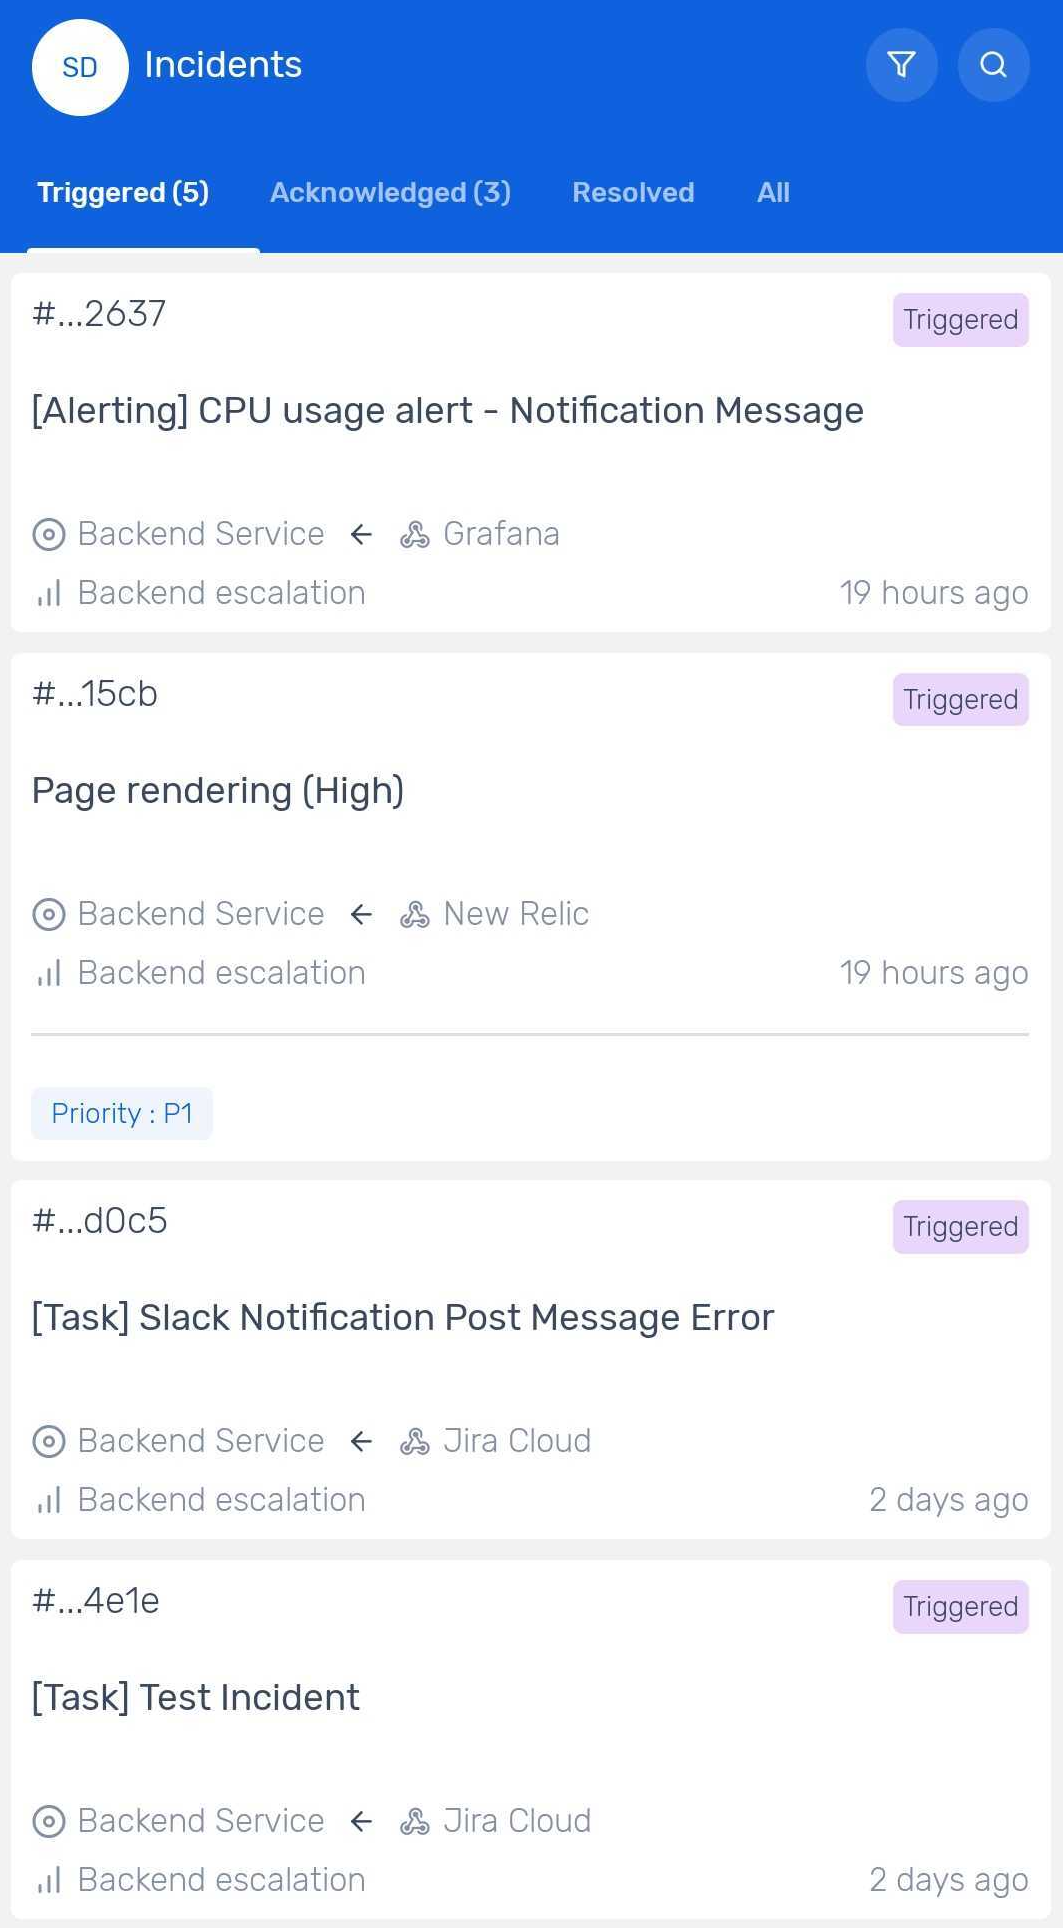
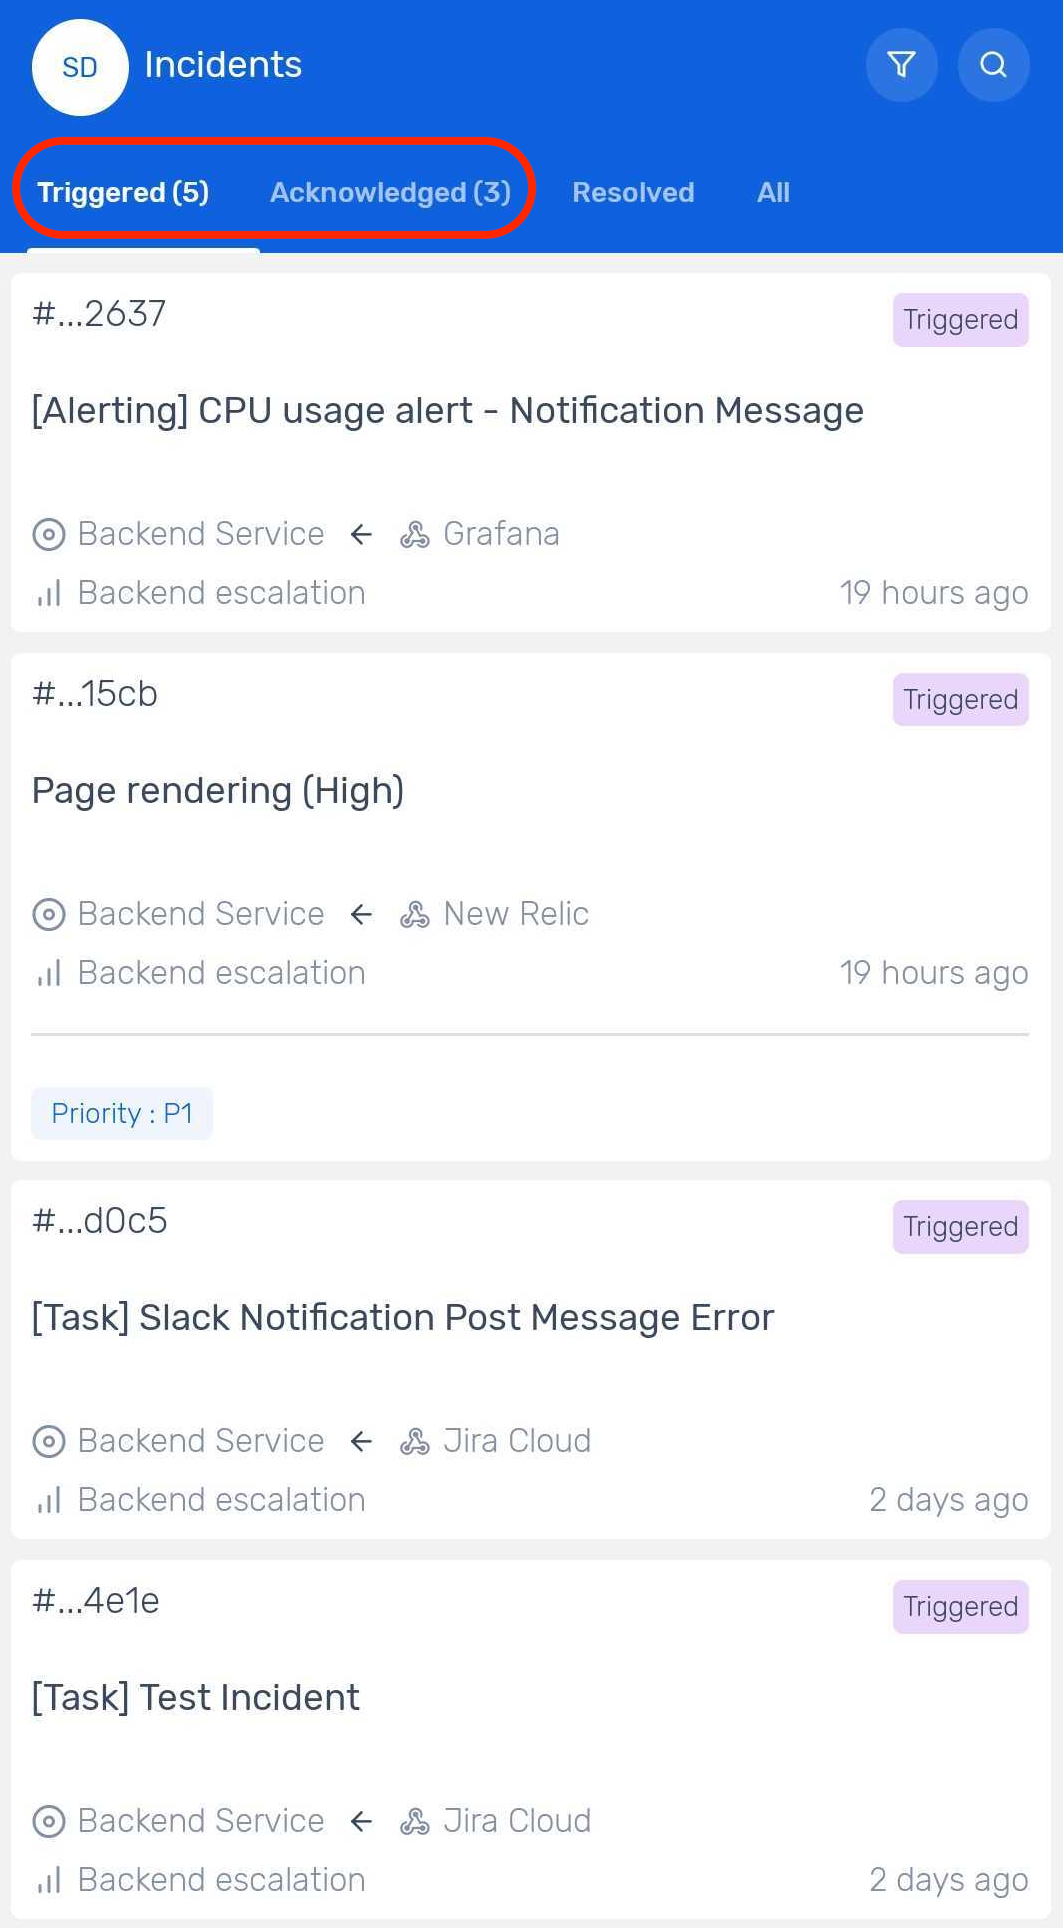
Updated Using Mobile App doc

Changed region(s): [[0.0, 0.0622, 0.5278, 0.1245]]

diff --git a/pages/mydoc/using_the_mobile_app.md b/pages/mydoc/using_the_mobile_app.md
@@ -9,24 +9,26 @@ permalink: docs/using-the-mobile-app
 folder: mydoc
 ---
 
-You can use our mobile app to Acknowledge, Reassign, take Actions, and Resolve from the Mobile App also a view into who is on-call schedules. The Mobile app will walk you into the incident dashboard where you will be able to view incidents organized into incident-status.
+You can use our mobile app to Acknowledge, Reassign, take Actions, and Resolve from the mobile app. You can also view who is on-call from the Schedules Tab. The mobile app will walk you into the **Incident List** view where you will be able to view incidents organized by Incident status, that is, Triggered, Acknowledged and Resolved.
 
 {{site.data.alerts.green-note-check}}
 <b>SSO login now available on Mobile App</b>
-<br/><br/><p>We have enabled SSO login for Mobile Apps as well. Check the <a href="#sso-login-support-for-mobile-apps">SSO login for mobile apps section</a> for more details.</p>
+<br/><br/><p>We have enabled SSO login for mobile application. Check the <a href="#sso-login-support-for-mobile-apps">SSO login for mobile apps section</a> for more details.</p>
 {{site.data.alerts.end}}
 
-### Incident list
+### Incident List
 
-Once logged in the app will be navigated to the incident-list view. Incidents are organized according to incident-status. The tabs above list the count for only acknowledged and triggered incidents.
+Once logged in, you will be navigated to the Incident List view. Incidents are organized by the incident status. The tabs above hold the incident count for open incidents (Triggered & Acknowledged).
 
 ![](images/using_mobile_1.png){: style="max-width: 30%" }
 
-The incident list can be assorted into based on time by clicking the filter icon on the top right corner as mentioned below
+The **Incident List** holds the ability to filter to view incidents by time. You can do so by using the **filter icon** on the top right  corner of the **Incident List** page.
 
 ![](images/using_mobile_2.png){: style="max-width: 30%" }
 
-Incidents can be searched by clicking on search icon on the top right corner
+You can search for specific incidents by using the **search icon** on the top right corner of the page.
+
+![](images/using_mobile_search_button.png){: style="max-width: 30%" }
 
 ![](images/using_mobile_3.png){: style="max-width: 30%" }
 
@@ -36,25 +38,36 @@ All the Squadcast push notifications have a unique sound on both iOS and Android
 
 This should ensure that you get alerted on incidents and it doesn't get lost in the noise of other push notifications
 
-### Incident Page
+### Incident Details Page
 
-On an incident page you can take all the actions that are supported on our web app. The page is categorized into 4 pages based on the incident. Details - the incident details, Timeline - incident timeline, Events - incident events (if the incident has deduped events), Incident Notes
+On the **Incident Details** page, you can take all the actions that are supported on our web app. The page has 4 major sections, namely:
+
+- Details - the incident details that come in from the incident payload
+- Timeline - the timeline of incident specific activities, such as Acknowledging or Resolving an Incident, Actions that are run and so on.
+- Events - incidents events that are deduplicated against the parent incident
+- Incident Notes & Starred Notes - all the notes created and starred for the incident
 
 ![](images/using_mobile_4.png){: style="max-width: 30%" }
 
-Incident details page enables quick actions (Acknowledge and Resolve), and more options provide reassign and squad actions
+The **Incident Details** page allows for quick actions:
+
+- Acknowledge - Acknowledge the incident
+- Resolve - Resolve the incident
+- Reassign - Reassign the incident to a different user
+- Respond with Action - Take JIRA or CircleCI actions on an incident
+ enables quick actions (Acknowledge and Resolve), and more options provide reassign and squad actions
 
 ![](images/using_mobile_5.png){: style="max-width: 30%" }
 
-#### Timeline 
+#### Timeline
 
-The incident timeline provides all the recorded logs taken against the action
+The **Incident Timeline** provides all the recorded logs taken against the incident
 
 ![](images/using_mobile_6.png){: style="max-width: 30%" }
 
 #### Incident Notes
 
-Each incident gets its own notes section. One can @mention users and invite them to collaborate and resolve the incident. 
+Each incident gets its own notes section. One can @mention users and invite them to collaborate and resolve the incident. When this is done, the mentioned user will receive an email and push notification to inform them of this. 
 
 ![](images/incident_notes_12.png){: style="max-width: 30%" }
 
@@ -73,21 +86,21 @@ You can add as many rules as you see fit.
 
 ### Teams
 
-Team lists all the members of the organization. Additionally, if the user is on call, there will be a small green dot against the user avatar. 
+**Team** lists all users in the organization. Additionally, if the user is on call, there will be a small green dot against the user avatar. 
 
 ![](images/using_mobile_9.png){: style="max-width: 30%" }
 
-Navigating to the user will take you into the user profile. User profile lists all the user info including the user's **Notification Rules**, **Schedules**, **Escalation Policies** and **Squads**.
+You can view any specific user’s profile by clicking on their avatar from the **Team** page. User profile lists all the user info including the user's **Notification Rules**, **Schedules**, **Escalation Policies** and **Squads**.
 
 ![](images/using_mobile_10.png){: style="max-width: 30%" }
 
 ### Schedules
 
-Schedules lists all the schedules organized against date and time.
+**Schedules** page lists all the **Schedules** organized against date and time.
 
 ![](images/using_mobile_11.png){: style="max-width: 30%" }
 
-### SSO login support for Mobile apps
+### SSO login support for mobile apps
 
 We have started supporting SSO login for mobile apps from version 2.8.37 onwards. Read below to know how to make it work on [Android](#android) & [iOS](#ios).
 
@@ -96,7 +109,7 @@ We have started supporting SSO login for mobile apps from version 2.8.37 onwards
 <br/><br/><p>SSO login for Mobile app works only if you access your SSO dashboard from your web browser. Login using SSO provider apps are not supported due to limitations imposed by the SSO providers.</p>
 {{site.data.alerts.end}}
 
-### Android
+### SSO Login Flow for Android Application
 
 1. Open the Squadcast Mobile App
 2. Open your mobile browser and login to the SSO dashboard from the mobile browser.
@@ -104,7 +117,7 @@ We have started supporting SSO login for mobile apps from version 2.8.37 onwards
 
 That's it, you will be logged in to the mobile app automatically.
 
-### iOS
+### SSO Login Flow for iOS Application
 
 1. Open your mobile browser and login to the SSO dashboard from the mobile browser.
 2. Click on the Squadcast logo in your SSO dashboard.
